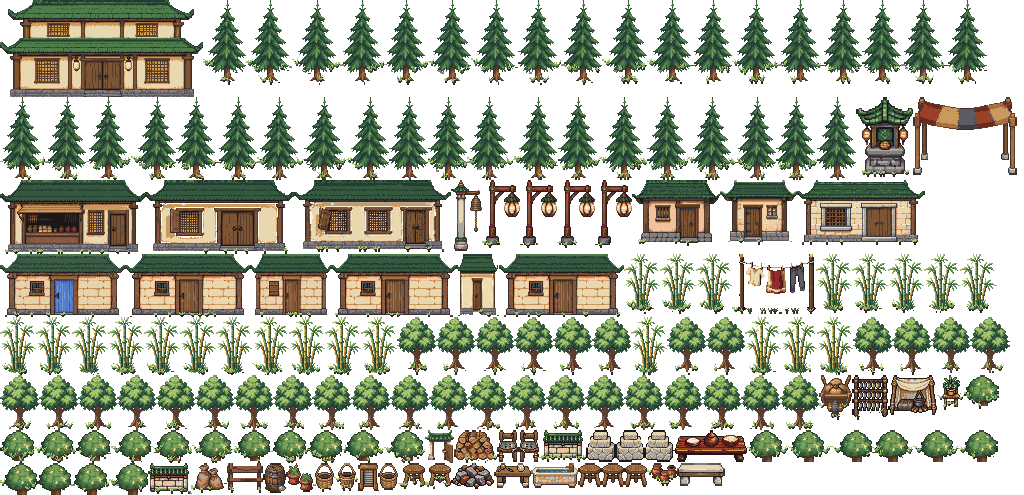
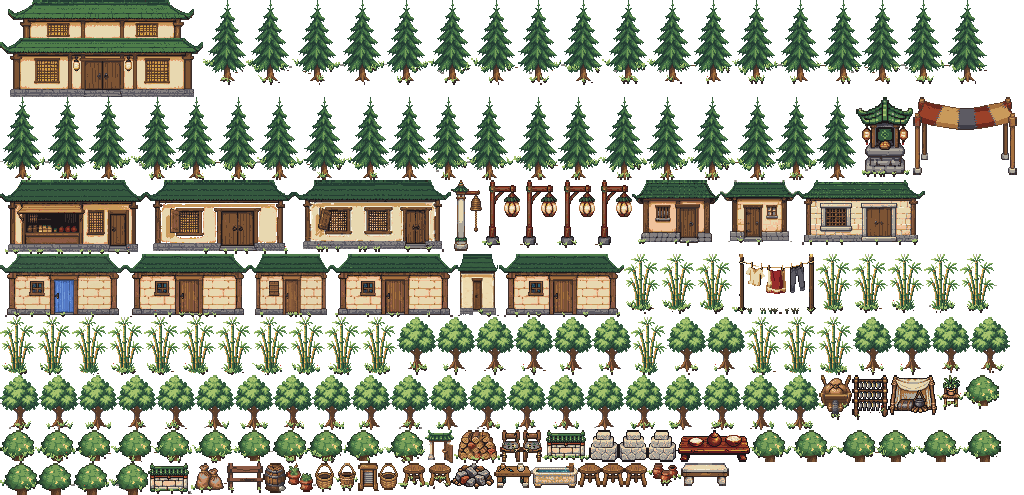
Stand Amri's pot and Senn's logs against their end walls
In the back row the pot and the log pile stood level with the roofs, out
on the lane side; they now stand at the foot of each house's end wall.
Re-baked Ba Dan.

Claude-Session: https://claude.ai/code/session_01H8JDTPYztrZvUL5HBCK6eR

Changed region(s): [[0.4375, 0.8485, 1.0, 1.0]]

diff --git a/src/content/scenes/baDan.setpieces.ts b/src/content/scenes/baDan.setpieces.ts
@@ -321,7 +321,7 @@ const PIECES: readonly PlannedSetPiece[] = [
       building('amri-row-house', "Amri's house", 8, 19, 3, 2, 1.35),
       flat('amri-doorstep', 'doorstep', 9, 18),
       flat('amri-free-step', 'free doorstep', 10, 18),
-      small('amri-pot', 'pot', 7.3, 19.3, 0.5, 0.4),
+      small('amri-pot', 'pot', 7.45, 20.3, 0.5, 0.4),
     ],
   },
   {
@@ -333,7 +333,7 @@ const PIECES: readonly PlannedSetPiece[] = [
       building('senn-row-house', "Senn's house", 13, 19, 3, 2, 1.35),
       flat('senn-doorstep', 'doorstep', 14, 18),
       flat('senn-free-step', 'free doorstep', 15, 18),
-      small('senn-logs', 'log pile', 16.1, 19.2, 0.7, 0.65),
+      small('senn-logs', 'log pile', 16.05, 20.1, 0.7, 0.65),
     ],
   },
   {
